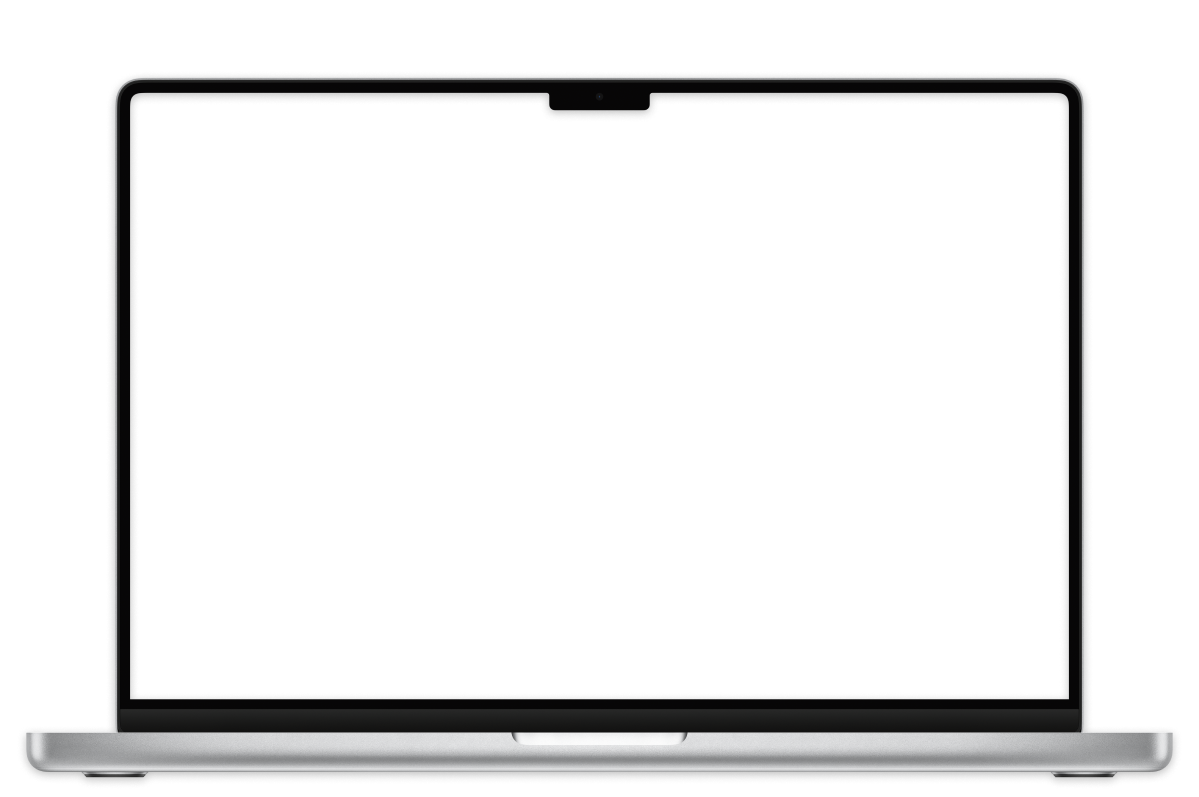
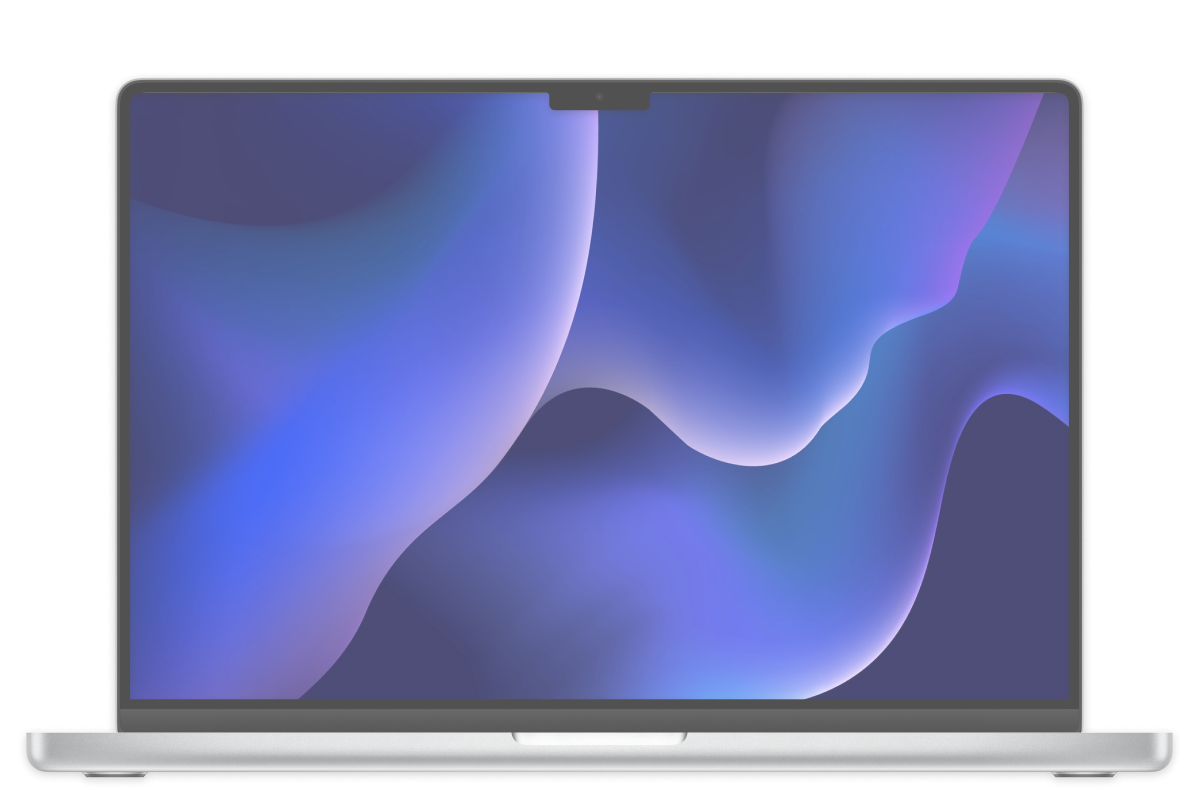
modified index

diff --git a/style.css b/style.css
@@ -70,7 +70,7 @@ h1{
 /*Aquí empieza la home */
 
 .home{
-    background-image: url(Images/fondo\ home.png);
+    /* background-image: url(Images/fondo\ home.png); */
     display: flex;
     flex-direction: row;
     justify-content: center;
@@ -86,40 +86,46 @@ h1{
 .descriptionweb h1{
     font-size: 3em;
     color: #DEDEDE;
-    font-size: 6vw;
+    font-size: 4vw;
     font-family: Open Sans;
     font-weight: 600; 
     text-align: center;
 }
 .descriptionweb p{
     color: #FFC709;
-    font-size: 4vw;
+    font-size: 2vw;
     font-family: 'Share Tech', sans-serif;
     font-weight: 400;
     text-align: center;
 }
 .descriptionweb{
-    text-align: right;
+    background-image: url(/Images/fondo\ home.png);
+    text-align: center;
     width: 100%;
+    align-items: center;
 }
-.boton_contact{
-    position: fixed;
+.home_function{
+    position: absolute;
+    top: 70%;
+    left: 10%;
+}
+.home_stadistic{
+    position: absolute;
+    top: 85%;
+    right: 11%;
+}
+.index_porcentage{
     color: #DEDEDE;
-    background-color: #0B182D;
-    font-size: 25px;
-    font-family: Open Sans;
-    font-weight: 700;
-    padding: 2%;
-    top: 80%;
-    left: 90%;
-    transform: translate(-50%, -50%);
-    border-radius: 100px;
+    display: flex;
+    flex-direction: row;
+    align-items: center;
+    justify-content: center;
 }
-.image_home img{
-    border-radius: 100px 100px 100px 0;
+.index_porcentage h4{
+    font-size: 3em;
 }
-.porcentage{
-    color: #DEDEDE;
+.index_porcentage p{
+    font-size: 0.9em;
 }
 /*------------------------------------------------------------------------------------------------------------------------------------------------*/
 /*Aquí empieza el FAQ*/

diff --git a/index.html b/index.html
@@ -31,21 +31,22 @@
          <div class="descriptionweb">
              <h1>SPARKWAVE TECH</h1>
              <p>ENCENDIENDO EL ÉXITO DIGITAL</p>
-             <img src="/Images/MacBook Pro 16_ - 5th Gen - Silver.png" alt="foto de un ordenador portátil macbook">
+             <div>
+                <img class="home_macbook" src="/Images/MacBook Pro 16_ - 5th Gen - Silver.png" alt="foto de un ordenador portátil macbook">
+                <img class="home_function" src="/Images/home_function.png" alt="imagen de una función de código">
+                <img class="home_stadistic" src="/Images/home_stadistic.png" alt="imagen datos estadísticos">
+             </div>
+             <article class="index_porcentage">
+                <h4>+10 </h4>
+                <p>años de <br> experiencia</p>
+             </article>
+             <article class="index_porcentage">
+                <h4>+50</h4>
+                <p>casos de <br> éxito</p>
+             </article>
+             
          </div>
-         <!-- <div class="image_home">
-             <img src="./Images/image 1.png" alt="imagen azul">
-              <a href="contact.html"><button class="boton_contact">Contáctanos</button></a>
-              </div>-->
-        </section>
-        <article class="porcentage">
-            <h4>+80</h4>
-            <p>negocios</p>
-            <h4>+10</h4>
-            <p>años de experiencia</p>
-            <h4>+1000</h4>
-            <p>negocios</p>
-        </article> 
+        </section> 
      </main>
     <div class="scrol"></div>
     <section class="final">
